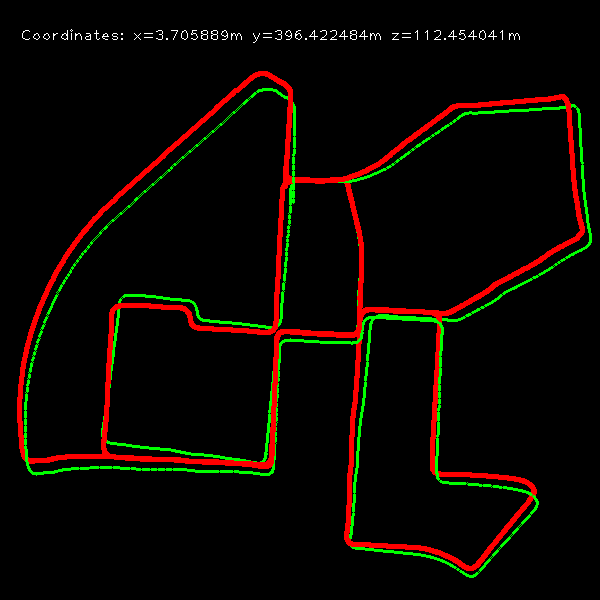
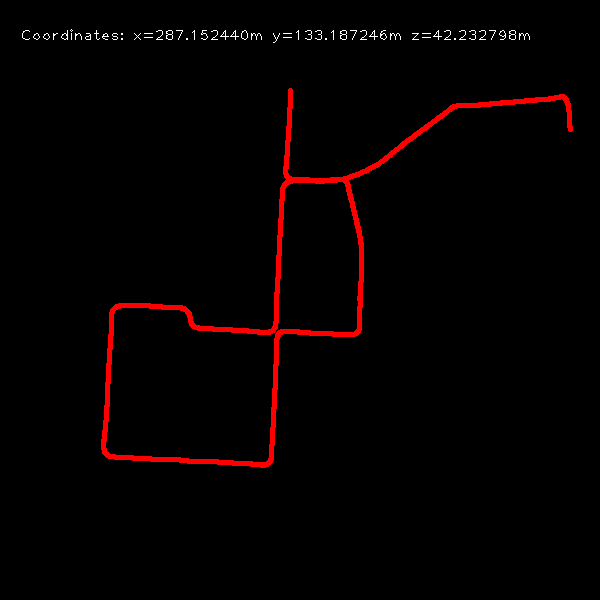
Ground truth draw update

diff --git a/test.py b/test.py
@@ -8,40 +8,71 @@ import numpy as np
 import matplotlib.pyplot as plt
 
 cam = PinholeCamera(1241.0, 376.0, 718.8560, 718.8560, 607.1928, 185.2157)
-vo = VisualOdometry(cam, '../dataset_kitti/KITTI_odometry_poses/00.txt')
+ground_truth = VisualOdometry(cam, '/home/xxs90/Documents/orb-slam3/data_odometry/data_odometry_poses/00.txt')
+orb_slam3 = VisualOdometry(cam, '/home/xxs90/Documents/orb-slam3/ORB_SLAM3/Examples/KeyFrameTrajectory_00.txt')
 
 traj = np.zeros((600,600,3), dtype=np.uint8)
 
-fig, ax = draw_3d_init()
+# fig, ax = draw_3d_init()
+data_length = 2000
 
+for img_id in range(data_length):
+	img = cv2.imread('/home/xxs90/Documents/orb-slam3/data_odometry/data_odometry_gray/00/image_0/'+str(img_id).zfill(6)+'.png', 0)
 
-for img_id in range(4541):
-	img = cv2.imread('../dataset_kitti/KITTI_odometry_gray/00/image_0/'+str(img_id).zfill(6)+'.png', 0)
+	ground_truth.update(img, img_id)
+	# orb_slam3.update(img, img_id)
 
-	vo.update(img, img_id)
+	cur_t = ground_truth.cur_t
 
-	cur_t = vo.cur_t
-	if(img_id > 2):
-		x, y, z = cur_t[0], cur_t[1], cur_t[2]
-	else:
-		x, y, z = 0., 0., 0.
-	draw_x, draw_y = int(x)+290, int(z)+90
-	true_x, true_y = int(vo.trueX)+290, int(vo.trueZ)+90
+	true_x, true_y = int(ground_truth.trueX)+290, int(ground_truth.trueZ)+90
+	orb3_x, orb3_y = int(orb_slam3.orb3_X)+290, int(orb_slam3.orb3_Z)+90
 
-	# cv2.circle(traj, (draw_x,draw_y), 1, (img_id*255/4540,255-img_id*255/4540,0), 1)
-	cv2.circle(traj, (draw_x,draw_y), 1, (0,255,0), 1) # lime line for estimation
-
-	cv2.circle(traj, (true_x,true_y), 1, (0,0,255), 2)
+	# cv2.circle(traj, (orb3_x, orb3_y), 1, (0,255,0), 1)
+	cv2.circle(traj, (true_x,true_y), 1, (0,255,255), 2)
 	cv2.rectangle(traj, (10, 20), (600, 60), (0,0,0), -1)
-	text = "Coordinates: x=%2fm y=%2fm z=%2fm"%(x,y,z)
+	text = "Coordinates: x=%2fm y=%2fm"%(true_x, true_y)
 	cv2.putText(traj, text, (20,40), cv2.FONT_HERSHEY_PLAIN, 1, (255,255,255), 1, 8)
 	
-	draw_3d_add(ax,int(x),int(z),int(y), color="g")
-	draw_3d_add(ax,int(vo.trueX),int(vo.trueZ),int(vo.trueY), color="r")
-	# plt.pause(0.000001)
 	cv2.imshow('Road facing camera', img)
 	cv2.imshow('Trajectory', traj)
 	cv2.waitKey(1)
 
 cv2.imwrite('map.png', traj)
 plt.show()
+
+
+# import numpy as np 
+# import cv2
+
+# from visual_odometry import PinholeCamera, VisualOdometry
+
+
+# cam = PinholeCamera(1241.0, 376.0, 718.8560, 718.8560, 607.1928, 185.2157)
+# # vo = VisualOdometry(cam, '/home/xxs90/Documents/orb-slam3/data_odometry/data_odometry_poses/00.txt')
+
+# traj = np.zeros((600,600,3), dtype=np.uint8)
+
+# for img_id in range(4541):
+# 	img = cv2.imread('/home/xxs90/Documents/orb-slam3/data_odometry/data_odometry_gray/00/image_0/'+str(img_id).zfill(6)+'.png', 0)
+
+# 	# vo.update(img, img_id)
+
+# 	# cur_t = vo.cur_t
+# 	# if(img_id > 2):
+# 		# x, y, z = cur_t[0], cur_t[1], cur_t[2]
+# 	# else:
+# 		# x, y, z = 0., 0., 0.
+# 	# draw_x, draw_y = int(x)+290, int(z)+90
+# 	# true_x, true_y = int(vo.trueX)+290, int(vo.trueZ)+90
+
+# 	# cv2.circle(traj, (draw_x,draw_y), 1, (img_id*255/4540,255-img_id*255/4540,0), 1)
+# 	cv2.circle(traj, (true_x,true_y), 1, (0,0,255), 2)
+# 	cv2.rectangle(traj, (10, 20), (600, 60), (0,0,0), -1)
+# 	# text = "Coordinates: x=%2fm y=%2fm z=%2fm"%(x,y,z)
+# 	# cv2.putText(traj, text, (20,40), cv2.FONT_HERSHEY_PLAIN, 1, (255,255,255), 1, 8)
+
+# 	cv2.imshow('Road facing camera', img)
+# 	cv2.imshow('Trajectory', traj)
+# 	cv2.waitKey(1)
+
+# cv2.imwrite('map.png', traj)

diff --git a/visual_odometry.py b/visual_odometry.py
@@ -46,6 +46,7 @@ class VisualOdometry:
 		self.focal = cam.fx
 		self.pp = (cam.cx, cam.cy)
 		self.trueX, self.trueY, self.trueZ = 0, 0, 0
+		self.orb3_X, self.orb3_Y, self.orb3_Z = 0, 0, 0
 		self.detector = cv2.FastFeatureDetector_create(threshold=25, nonmaxSuppression=True)
 		with open(annotations) as f:
 			self.annotations = f.readlines()
@@ -61,6 +62,20 @@ class VisualOdometry:
 		z = float(ss[11])
 		self.trueX, self.trueY, self.trueZ = x, y, z
 		return np.sqrt((x - x_prev)*(x - x_prev) + (y - y_prev)*(y - y_prev) + (z - z_prev)*(z - z_prev))
+
+		
+	def getAbsoluteScaleORB(self, frame_id):  #specialized for KITTI odometry dataset
+		ss = self.annotations[frame_id-1].strip().split()
+		x_prev = float(ss[1])
+		y_prev = float(ss[2])
+		z_prev = float(ss[3])
+		ss = self.annotations[frame_id].strip().split()
+		x = float(ss[1])
+		y = float(ss[2])
+		z = float(ss[3])
+		self.orb3_X, self.orb3_Y, self.orb3_Z = x, y, z
+		return np.sqrt((x - x_prev)*(x - x_prev) + (y - y_prev)*(y - y_prev) + (z - z_prev)*(z - z_prev))
+		
 
 	def processFirstFrame(self):
 		self.px_ref = self.detector.detect(self.new_frame)
@@ -87,11 +102,25 @@ class VisualOdometry:
 			self.px_cur = np.array([x.pt for x in self.px_cur], dtype=np.float32)
 		self.px_ref = self.px_cur
 
+	def processFrameORB(self, frame_id):
+		self.px_ref, self.px_cur = featureTracking(self.last_frame, self.new_frame, self.px_ref)
+		E, mask = cv2.findEssentialMat(self.px_cur, self.px_ref, focal=self.focal, pp=self.pp, method=cv2.RANSAC, prob=0.999, threshold=1.0)
+		_, R, t, mask = cv2.recoverPose(E, self.px_cur, self.px_ref, focal=self.focal, pp = self.pp)
+		absolute_scale = self.getAbsoluteScaleORB(frame_id)
+		if(absolute_scale > 0.1):
+			self.cur_t = self.cur_t + absolute_scale*self.cur_R.dot(t) 
+			self.cur_R = R.dot(self.cur_R)
+		if(self.px_ref.shape[0] < kMinNumFeature):
+			self.px_cur = self.detector.detect(self.new_frame)
+			self.px_cur = np.array([x.pt for x in self.px_cur], dtype=np.float32)
+		self.px_ref = self.px_cur
+
 	def update(self, img, frame_id):
 		assert(img.ndim==2 and img.shape[0]==self.cam.height and img.shape[1]==self.cam.width), "Frame: provided image has not the same size as the camera model or image is not grayscale"
 		self.new_frame = img
 		if(self.frame_stage == STAGE_DEFAULT_FRAME):
 			self.processFrame(frame_id)
+			self.processFrameORB(frame_id)
 		elif(self.frame_stage == STAGE_SECOND_FRAME):
 			self.processSecondFrame()
 		elif(self.frame_stage == STAGE_FIRST_FRAME):
